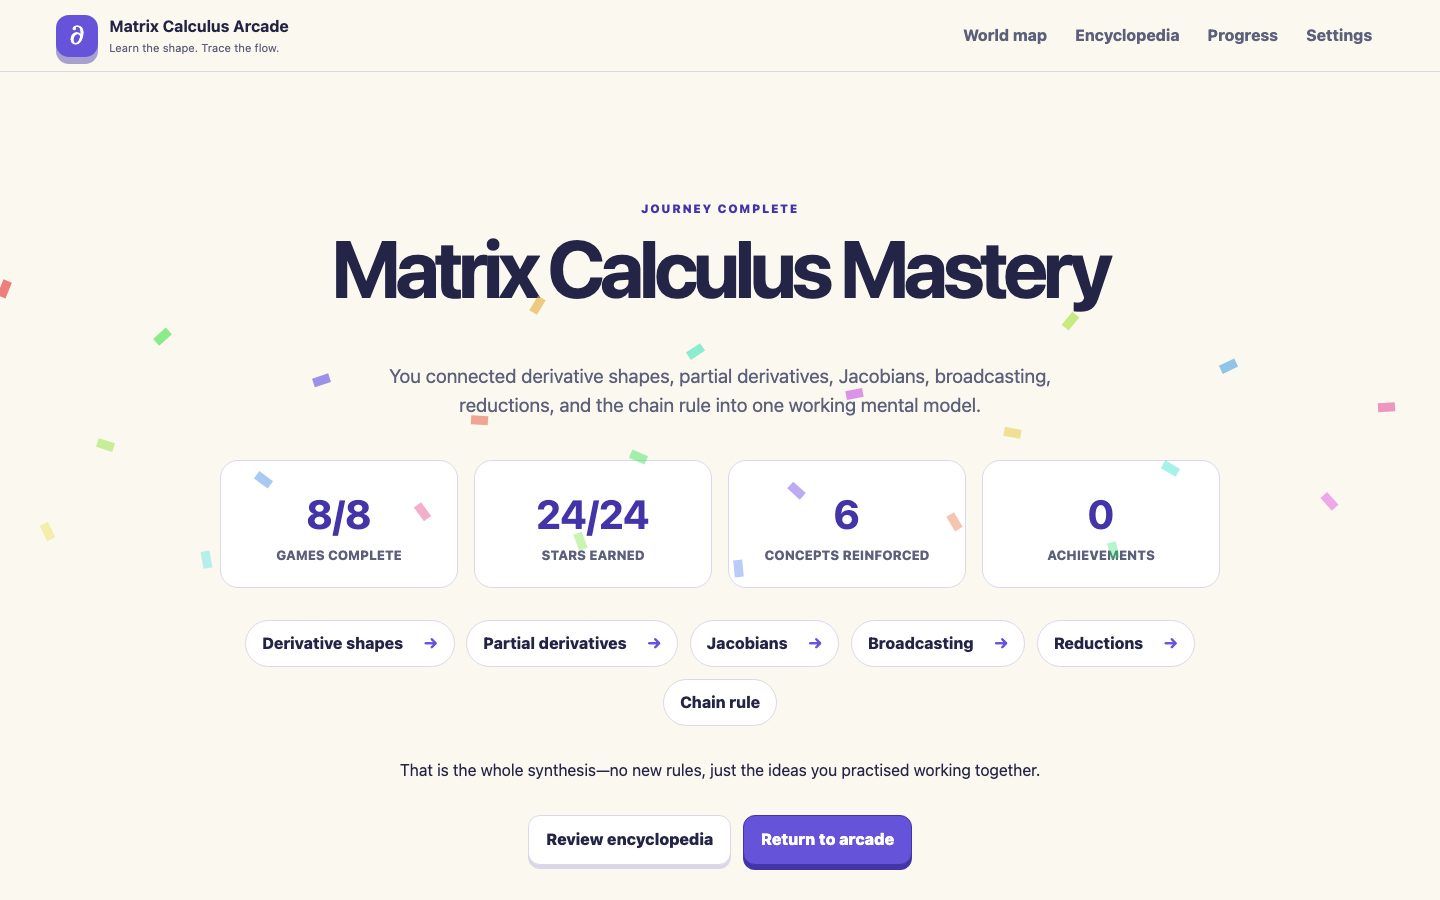
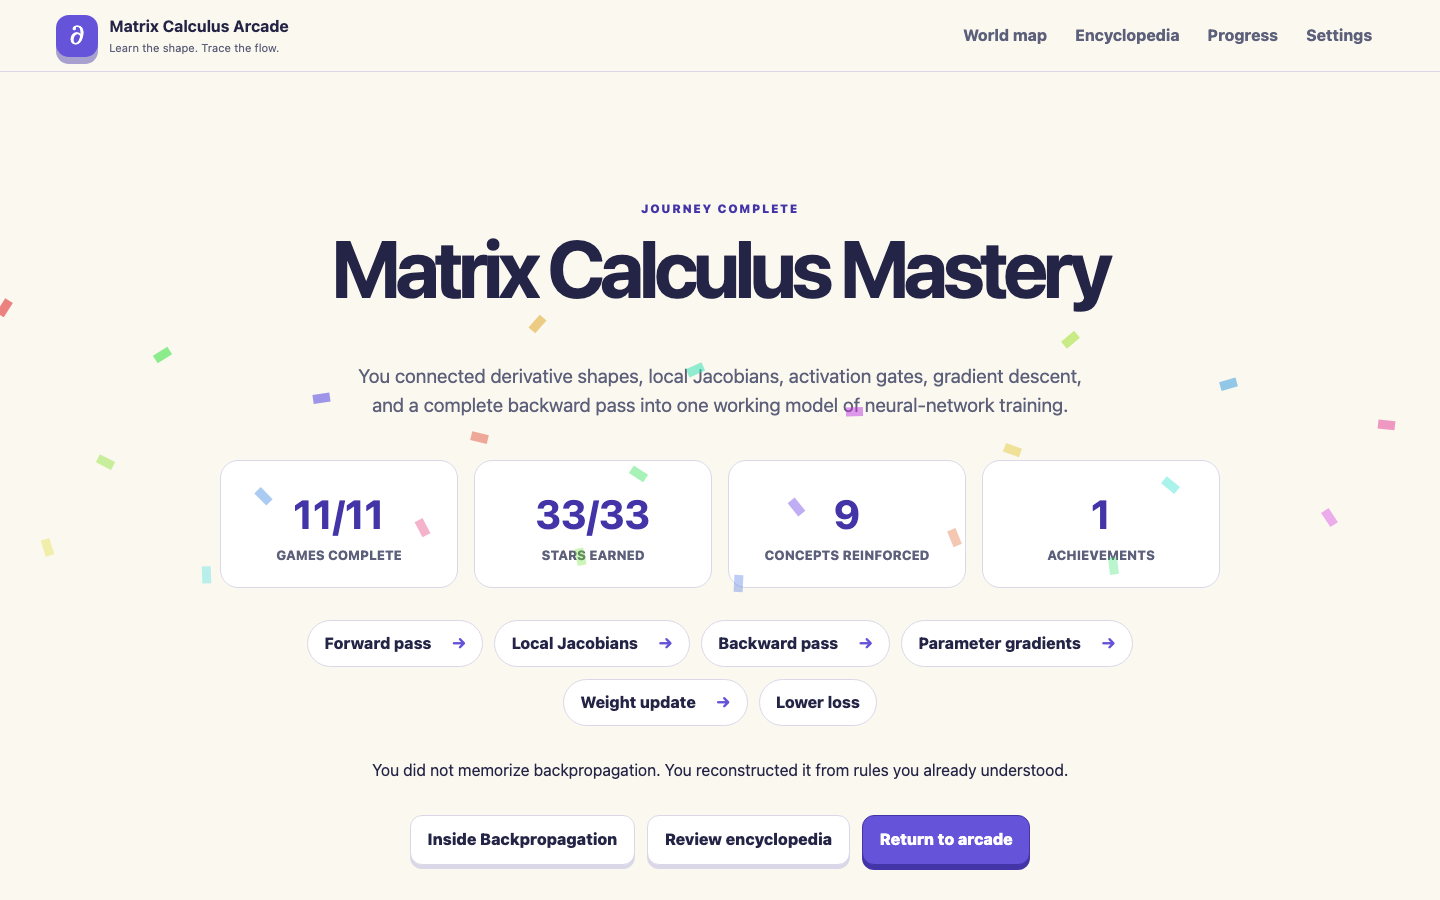
Document and verify the backpropagation chapter

diff --git a/tests/training-engines.test.js b/tests/training-engines.test.js
@@ -1,0 +1,51 @@
+import test from 'node:test';
+import assert from 'node:assert/strict';
+import { chainGradient, deadNeuronIndices, relu, reluDerivative } from '../src/games/relu-gatekeeper/engine.js';
+import { LANDSCAPES, converged, gradientStep, runDescent } from '../src/games/gradient-descent-navigator/engine.js';
+import { BOSS_NETWORK, backward, forward, matrixVector, transpose } from '../src/games/backpropagation-boss/engine.js';
+
+test('ReLU forward values and local derivatives stay distinct', () => {
+  assert.equal(relu(3), 3);
+  assert.equal(reluDerivative(3), 1);
+  assert.equal(relu(-2), 0);
+  assert.equal(reluDerivative(-2), 0);
+  assert.equal(reluDerivative(0), 0);
+});
+
+test('one closed ReLU gate blocks a serial gradient path', () => {
+  assert.equal(chainGradient([2, 1, .1], 4), 4);
+  assert.equal(chainGradient([2, -1, .1], 4), 0);
+  assert.deepEqual(deadNeuronIndices([.01, -2, 0, 5]), [1, 2]);
+});
+
+test('gradient descent subtracts while ascent adds the local gradient', () => {
+  const bowl = LANDSCAPES[0];
+  assert.deepEqual(gradientStep(bowl, [2, -1], .25, 'downhill'), [1.5, -.75]);
+  assert.deepEqual(gradientStep(bowl, [2, -1], .25, 'uphill'), [2.5, -1.25]);
+});
+
+test('every landscape converges with its documented learning rate', () => {
+  for (const landscape of LANDSCAPES) {
+    const path = runDescent(landscape, landscape.start, landscape.learningRate, 100);
+    assert.ok(path.some((point) => converged(landscape, point)), landscape.title);
+  }
+});
+
+test('matrix utilities preserve backpropagation shapes', () => {
+  assert.deepEqual(matrixVector([[1, 2], [3, 4]], [2, 1]), [4, 10]);
+  assert.deepEqual(transpose([[1, 2, 3]]), [[1], [2], [3]]);
+});
+
+test('tiny network forward pass matches the displayed boss state', () => {
+  assert.deepEqual(forward(BOSS_NETWORK), { z1: [3, .5, -4.5], h: [3, .5, 0], prediction: 2, loss: .5 });
+});
+
+test('complete backward pass follows transpose, ReLU mask, and outer products', () => {
+  const result = backward(BOSS_NETWORK);
+  assert.deepEqual(result.dH, [1, -2, .5]);
+  assert.deepEqual(result.mask, [1, 1, 0]);
+  assert.deepEqual(result.dZ1, [1, -2, 0]);
+  assert.deepEqual(result.dInput, [0, -2]);
+  assert.deepEqual(result.dW2, [[3, .5, 0]]);
+  assert.deepEqual(result.dW1, [[1, -2], [-2, 4], [0, -0]]);
+});

diff --git a/tests/modules.test.js b/tests/modules.test.js
@@ -2,9 +2,9 @@ import test from 'node:test';
 import assert from 'node:assert/strict';
 import { GAME_CATALOG } from '../src/games/catalog.js';
 
-test('catalog contains the eight games in curriculum order', () => {
-  assert.equal(GAME_CATALOG.length, 8);
-  assert.deepEqual(GAME_CATALOG.map((game) => game.order), ['01', '02', '03', '04', '05', '06', '07', '08']);
+test('catalog contains the original curriculum and Chapter III trilogy', () => {
+  assert.equal(GAME_CATALOG.length, 11);
+  assert.deepEqual(GAME_CATALOG.map((game) => game.order), ['01', '02', '03', '04', '05', '06', '07', '08', 'III·1', 'III·2', 'III·3']);
 });
 
 test('every game implements the GameModule contract', async () => {
@@ -16,8 +16,8 @@ test('every game implements the GameModule contract', async () => {
   }
 });
 
-test('legacy storage namespaces are unique', () => {
+test('all game storage namespaces are unique', () => {
   const keys = GAME_CATALOG.map((game) => game.storageKey);
   assert.equal(new Set(keys).size, keys.length);
-  assert.ok(keys.every((key) => key.startsWith('arcade.legacy.')));
+  assert.ok(keys.every((key) => key.startsWith('arcade.')));
 });

diff --git a/tests/progress.test.js b/tests/progress.test.js
@@ -41,3 +41,9 @@ test('free play unlocks without mutating progression', () => {
   assert.equal(store.isUnlocked(7, true), true);
   assert.equal(store.state.unlockedLevel, 0);
 });
+
+test('completed original curriculum migrates to the Chapter III gateway', () => {
+  const completedGames = GAME_DATA.slice(0, 8).map((game) => game.id);
+  const migrated = sanitizeProgress({ ...defaultProgress(), unlockedLevel: 7, completedGames });
+  assert.equal(migrated.unlockedLevel, 8);
+});

diff --git a/README.md b/README.md
@@ -1,6 +1,14 @@
 # Matrix Calculus Arcade
 
-Matrix Calculus Arcade turns eight complete learning games into one progressive product. The shared shell owns navigation, unlocks, accessibility preferences, audio, achievements, stars, the concept encyclopedia, pedagogical result screens, and the final **Matrix Calculus Mastery** synthesis. Puzzle engines remain faithful to their source repositories.
+Matrix Calculus Arcade turns eight foundational matrix-calculus games and a native three-game backpropagation trilogy into one progressive product. The shared shell owns navigation, unlocks, accessibility preferences, audio, achievements, stars, the concept encyclopedia, pedagogical result screens, and the final **Matrix Calculus Mastery** synthesis. Puzzle engines remain faithful to their source repositories.
+
+The final arc is **Chapter III — Learning to Train a Network**:
+
+1. **ReLU Gatekeeper** — activation Jacobians, dead neurons, and blocked gradient lanes.
+2. **Gradient Descent Navigator** — optimization direction, learning rate, plateaus, local minima, and overshooting.
+3. **Backpropagation Boss Battle** — a complete 2→3→1 backward pass reconstructed from local Jacobians.
+
+Completing the boss unlocks the **Inside Backpropagation** depth-and-activation sandbox.
 
 ## Run locally
 
@@ -13,6 +21,7 @@ Open `http://localhost:8080`. The application uses native ES modules and has no 
 ```bash
 npm test       # shell and module-contract tests
 npm run check  # JavaScript syntax checks
+npm run test:browser # requires a local server and Chrome debugging endpoint
 ```
 
 ## Architecture
@@ -30,8 +39,9 @@ src/
 ├── games/
 │   ├── game-data.js  # curriculum and pedagogy metadata
 │   ├── catalog.js    # lazy module imports
-│   ├── legacy-game-module.js # shared GameModule adapter
-│   └── <game>/       # module.js plus the preserved puzzle engine
+│   ├── legacy-game-module.js # shared adapter for the original eight
+│   ├── training-runtime.js   # persistence and feedback utilities
+│   └── <game>/       # module.js plus preserved or native puzzle engine
 ├── assets/           # shared runtime assets
 ├── styles/           # six purpose-specific shared stylesheets
 └── utils/            # focused DOM and math utilities
@@ -58,18 +68,18 @@ The shell lazy-loads a cabinet only after route and progression checks. The adap
 
 Arcade state is stored under `matrix-calculus-arcade.progress.v1`. It records the unlocked module, stars, achievements, best scores, reinforced concepts, completion state, play statistics, and settings. Each game retains its detailed practice state under a unique `arcade.legacy.*` key. This isolation fixes collisions in the original standalone storage schemas.
 
-No learner data leaves the browser. **New Game** resets arcade progression and all eight detailed campaign records after confirmation; each original game also exposes its own reset control where appropriate.
+No learner data leaves the browser. **New Game** resets arcade progression and all eleven detailed campaign records after confirmation; each original game also exposes its own reset control where appropriate.
 
 ## Design decisions
 
-- Gameplay was not rewritten. The integration boundary protects mature mathematical engines and their tests while the common adapter eliminates eight shell implementations.
+- The original gameplay was not rewritten. The integration boundary protects mature mathematical engines and their tests while the common adapter eliminates eight shell implementations. Chapter III is implemented natively against the same lifecycle contract.
 - The numerator-layout convention and each source game's explicit assumptions remain unchanged.
 - Shared chrome is outside the game frame. That gives every game the same Home, Restart, Hint, Stars, Progress, and Mute controls without coupling engines to navigation.
 - Animations are short, decorative, and disabled by either system preference or the arcade setting.
 - A shared vendored MathJax runtime replaces duplicate bundles and CDN dependencies where the source runtime is compatible.
 - Free Play changes only arcade route authorization; it does not fabricate campaign completion.
 
-See [MIGRATION.md](./MIGRATION.md) for source-to-target mapping and [DUPLICATION.md](./DUPLICATION.md) for the consolidation record.
+See [MIGRATION.md](./MIGRATION.md) for source-to-target mapping, [DUPLICATION.md](./DUPLICATION.md) for the consolidation record, and [docs/chapter-iii/](./docs/chapter-iii/) for the trilogy curriculum, architecture, teacher guide, misconception map, and reusable-component inventory.
 
 ## Browser support
 

diff --git a/docs/chapter-iii/TEACHER-GUIDE.md b/docs/chapter-iii/TEACHER-GUIDE.md
@@ -1,0 +1,51 @@
+# Teacher guide
+
+## Suggested sequence
+
+Run Chapter III only after learners can explain numerator-layout Jacobian shape, diagonal element-wise Jacobians, reduction gradients, transpose order, and chain-rule composition. The chapter assumes those ideas and avoids reteaching them.
+
+## ReLU Gatekeeper
+
+| Trial | Interaction | Teaching purpose | Debrief prompt |
+|---|---|---|---|
+| Read one gate | Pass/block values around zero | ReLU is piecewise and local | “Which value does the gate inspect?” |
+| Output is not derivative | Compare forward output with backward derivative | Separate value flow from sensitivity flow | “Why can output 3 have derivative 1?” |
+| Guard a chain | Predict survival across serial gates | A zero factor blocks the full path product | “Which local Jacobian erased the path?” |
+| Restore the hidden layer | Select all dead neurons | ReLU Jacobian is a diagonal mask | “Does small positive mean nearly blocked?” |
+
+At zero, the arcade explicitly uses ReLU′(0)=0. Discuss that this is an implementation convention at the nondifferentiable point.
+
+## Gradient Descent Navigator
+
+| Landscape | Isolated idea | Useful intervention |
+|---|---|---|
+| Simple Bowl | subtract the gradient | Ask the learner to try uphill once |
+| Narrow Valley | unequal curvature | Compare loss reduction at two η values |
+| Steep Cliff | large gradients amplify a step | Predict oscillation before running |
+| Plateau | slow progress from a small gradient | Separate “small slope” from “at minimum” |
+| Twisting Ravine | gradient is local information | Discuss local versus global minimum |
+| Overshooting | stability of η | Find a fast stable range by observation |
+
+The game teaches optimization intuition, not differentiation. Do not turn these rounds into derivative exercises.
+
+## Backpropagation Boss Battle
+
+| Phase | Learner reconstructs | Prior arcade connection |
+|---|---|---|
+| Loss → output | initial loss gradient | scalar derivative and reduction |
+| Output → hidden | W₂ᵀ routing and ∇W₂ outer product | Jacobian Tetris and chain order |
+| Hidden → input | ReLU mask, W₁ᵀ routing, ∇W₁ outer product | Diagonal Detective and ReLU Gatekeeper |
+| Full chain | loss, transpose products, activation, bias, update | every prior game |
+
+After each transformation, ask the learner to say whether they are routing a gradient to an earlier value or constructing a parameter-shaped gradient. This distinction resolves many transpose and outer-product errors.
+
+## Assessment
+
+A learner is ready to leave the chapter when they can narrate:
+
+1. where the incoming loss gradient begins;
+2. why a linear layer uses a transpose when routing backward;
+3. how ReLU removes lanes;
+4. why a weight gradient is an outer product;
+5. why shared broadcast contributions add;
+6. how the optimizer uses the resulting parameter gradient.

diff --git a/docs/chapter-iii/ARCHITECTURE.md b/docs/chapter-iii/ARCHITECTURE.md
@@ -1,0 +1,52 @@
+# Chapter III architecture
+
+## Module boundary
+
+Each game exports the existing `GameModule` contract from `module.js`. The shell supplies callbacks for readiness, progress, hints, and completion. Games do not import the router or mutate arcade-wide progress.
+
+```text
+module.js
+  └── view.js       DOM lifecycle and interaction state
+        ├── engine.js       pure mathematical/gameplay truth
+        └── training-runtime.js  shared persistence, announcements, stars
+```
+
+The engines are independently importable in Node tests. The view layer owns only interaction state and rendering.
+
+## State
+
+Each game uses one namespaced versioned localStorage record:
+
+```text
+arcade.training.relu-gatekeeper.v1
+arcade.training.gradient-descent-navigator.v1
+arcade.training.backpropagation-boss.v1
+```
+
+The shell remains the authority for chapter unlocking, stars, achievements, best scores, and concepts. New Game clears both original and Chapter III records after confirmation.
+
+## Rendering and performance
+
+- ReLU particles and edge glows use transform/opacity CSS animation.
+- Navigator creates its SVG scene once per interaction state and mutates rover, arrow, contour trace, and loss trace attributes during `requestAnimationFrame` movement.
+- Boss state changes only after learner actions; no idle render loop runs.
+- `destroy()` cancels timers or animation frames and removes the mounted root.
+- Game modules remain lazy imports through the existing catalog.
+
+## Accessibility
+
+- Every drag interaction in the Boss Battle has a click-and-apply alternative.
+- Decisions use native buttons, sliders, labels, and live regions.
+- Visual states also have text labels and never rely on color alone.
+- The shared reduced-motion rule disables particles, pulses, and transitions.
+- All games preserve visible focus and function at narrow mobile widths.
+
+## Numerical network
+
+The boss uses a fixed, inspectable 2→3→1 network. Its pure engine calculates:
+
+```text
+x → W₁x+b₁ → ReLU → W₂h+b₂ → ½(ŷ−y)²
+```
+
+The network diagram is generated by the same engine tested in `tests/training-engines.test.js`. Phase annotations use the matching fixed results, and the regression suite verifies the complete forward and backward vectors and matrices.

diff --git a/docs/chapter-iii/README.md b/docs/chapter-iii/README.md
@@ -1,0 +1,37 @@
+# Chapter III — Learning to Train a Network
+
+Chapter III is the graduation arc of Matrix Calculus Arcade. The original eight games teach the local rules. These three games ask learners to combine those rules into the forward–backward–update loop used to train a neural network.
+
+The story follows one broken ancient network:
+
+- its neurons have forgotten when to transmit gradients;
+- its optimizer has lost the downhill direction;
+- its full computation graph can no longer assemble a backward pass.
+
+The chapter deliberately avoids presenting backpropagation as a new algorithm to memorize. Every answer is a rule the learner has already practised: a local derivative, diagonal Jacobian, transpose multiply, outer product, broadcast reduction, or gradient-descent update.
+
+## Educational objectives
+
+### ReLU Gatekeeper
+
+Learners distinguish ReLU output from ReLU derivative, predict whether single and serial gradient paths survive, and identify dead neurons from pre-activations. The final explanation reconnects the mechanic to a diagonal activation Jacobian containing zeros and ones.
+
+### Gradient Descent Navigator
+
+Learners use the gradient as a direction rather than calculating it. Six landscapes isolate downhill direction, step size, curvature, plateaus, local information, and overshooting. The contour map, parameter trace, and loss trace update from the same state.
+
+### Backpropagation Boss Battle
+
+Learners manually route a real backward pass through a 2→3→1 network. Each correct local transformation lights the corresponding edge and reveals one concise reason. The mastery phase removes hints and includes parameter gradients, broadcast reduction, and the final weight update.
+
+### Inside Backpropagation
+
+The unlocked sandbox varies depth from one to five layers and switches among ReLU, sigmoid, tanh, and linear activations. Forward and backward stepping highlights the active local Jacobian and labels the illustrative gradient product as vanishing, surviving, or growing.
+
+## Screenshots
+
+- `docs/screenshots/chapter-iii-map-desktop.png`
+- `docs/screenshots/relu-gatekeeper-desktop.png`
+- `docs/screenshots/gradient-descent-desktop.png`
+- `docs/screenshots/backprop-boss-desktop.png`
+- `docs/screenshots/inside-backprop-desktop.png`

diff --git a/docs/chapter-iii/MISCONCEPTIONS.md b/docs/chapter-iii/MISCONCEPTIONS.md
@@ -1,0 +1,17 @@
+# Student misconception map
+
+| Misconception | Diagnostic interaction | Corrective feedback |
+|---|---|---|
+| ReLU output equals ReLU derivative | positive value greater than one | Output preserves the value; the local slope is one |
+| Zero input has derivative one | exact-zero gate | This implementation declares ReLU′(0)=0 |
+| A small positive activation nearly blocks gradient | `z=0.01` hidden neuron | Every positive ReLU lane has local derivative one |
+| A dead neuron means its weights are zero | blocked gate | The current backward signal is zero; the parameter value is unchanged until an update |
+| The gradient points downhill | Navigator direction choice | The gradient points toward increasing loss; descent subtracts it |
+| A smaller learning rate is always safer and therefore best | plateau and bowl | Tiny η can make useful progress impractically slow |
+| A large learning rate is simply faster | cliff and overshoot | Curvature can turn a large step into oscillation or divergence |
+| A tiny gradient proves a global minimum | plateau/ravine | The gradient describes local slope and may be small on a plateau or at a local minimum |
+| Wᵀg is a weight gradient | Boss transformation tray | Wᵀg routes sensitivity to the previous activation |
+| An outer product routes the activation gradient | Boss transformation tray | The outer product constructs an object with the weight matrix’s shape |
+| ReLU mask belongs after W₁ᵀ | Boss phase III | Apply each local Jacobian in reverse forward order |
+| Broadcast backward is identity | shared-bias edge | Contributions from every reuse lane add |
+| Backpropagation is a special new rule | final boss phase | It is repeated local Jacobian composition plus parameter-gradient construction |

diff --git a/MIGRATION.md b/MIGRATION.md
@@ -19,6 +19,18 @@ Each engine still owns its questions, seeded generators, stage transitions, vali
 
 This boundary is intentional: merging different symbolic parsers or scoring functions solely because their function names look similar would risk mathematical and pedagogical regressions. Purely presentational and application-wide concerns are shared; behavior-sensitive engine utilities remain with their tested game.
 
+## Chapter III native modules
+
+The final three games have no external source repository. They are native modules built directly on the arcade lifecycle:
+
+| Chapter III | Module | Pure engine |
+|---|---|---|
+| ReLU Gatekeeper | `src/games/relu-gatekeeper/view.js` | `engine.js` gate, chain, and dead-neuron rules |
+| Gradient Descent Navigator | `src/games/gradient-descent-navigator/view.js` | `engine.js` landscapes and update rules |
+| Backpropagation Boss Battle | `src/games/backpropagation-boss/view.js` | `engine.js` 2→3→1 forward/backward pass |
+
+Existing version-1 arcade progress migrates without reset. Eight completed games raise `unlockedLevel` to the Chapter III gateway automatically.
+
 ## Storage migration
 
 Several standalone games used `matrixCalculusSuite.progress.v1` for incompatible root objects. In one origin, opening one game could erase another game's state. The arcade assigns every engine a stable unique key:

diff --git a/docs/chapter-iii/REUSABLE-COMPONENTS.md b/docs/chapter-iii/REUSABLE-COMPONENTS.md
@@ -1,0 +1,22 @@
+# Reusable components and utilities
+
+Chapter III reuses the arcade’s Button, HUD, ProgressBar, Stars, ResultScreen, Toast, Confetti, AudioManager, ThemeManager, Router, and ProgressStore.
+
+New reusable pieces are intentionally small:
+
+- `training-runtime.js`
+  - versioned namespaced state store;
+  - accessible live-region announcement helper;
+  - shared star threshold calculation.
+- `utils/dom.js`
+  - now creates HTML and SVG elements in the correct namespace, allowing native interactive diagrams without a rendering dependency.
+- `gradient-descent-navigator/engine.js`
+  - data-driven landscape contract;
+  - pure gradient step and multi-step trace functions.
+- `backpropagation-boss/engine.js`
+  - small matrix-vector and transpose utilities;
+  - inspectable forward/backward pass used by the game and tests.
+- `InsideBackprop`
+  - configurable layer/activation explorer suitable for later initialization, normalization, and residual-network lessons.
+
+Game-specific visual pieces—ReLU gates, contour maps, transformation tiles, gradient sockets, network layers, and boss-health display—share arcade tokens and CSS but remain within the Chapter III game stylesheet section because their semantics are not generic application UI.

diff --git a/DUPLICATION.md b/DUPLICATION.md
@@ -12,5 +12,7 @@ The integration consolidates these formerly repeated application concerns:
 - three byte-identical MathJax SVG bundles plus two CDN references → one shared local runtime;
 - repeated route-specific loading logic → one lazy game catalog and lifecycle adapter;
 - repeated completion-to-next-game logic → one result and unlock pipeline.
+- repeated Chapter III persistence, announcements, and star thresholds → `training-runtime.js`.
+- ReLU and backpropagation numerical truth → small pure engines shared by rendering and tests.
 
 Behavior-sensitive helpers such as seeded question generation, validators, scoring, symbolic simplification, and keyboard state machines remain within their games. Although some share generic names like `shuffle` or `scoreRound`, their constraints and outcomes are part of gameplay fidelity and are not treated as interchangeable without a cross-game behavioral specification.
